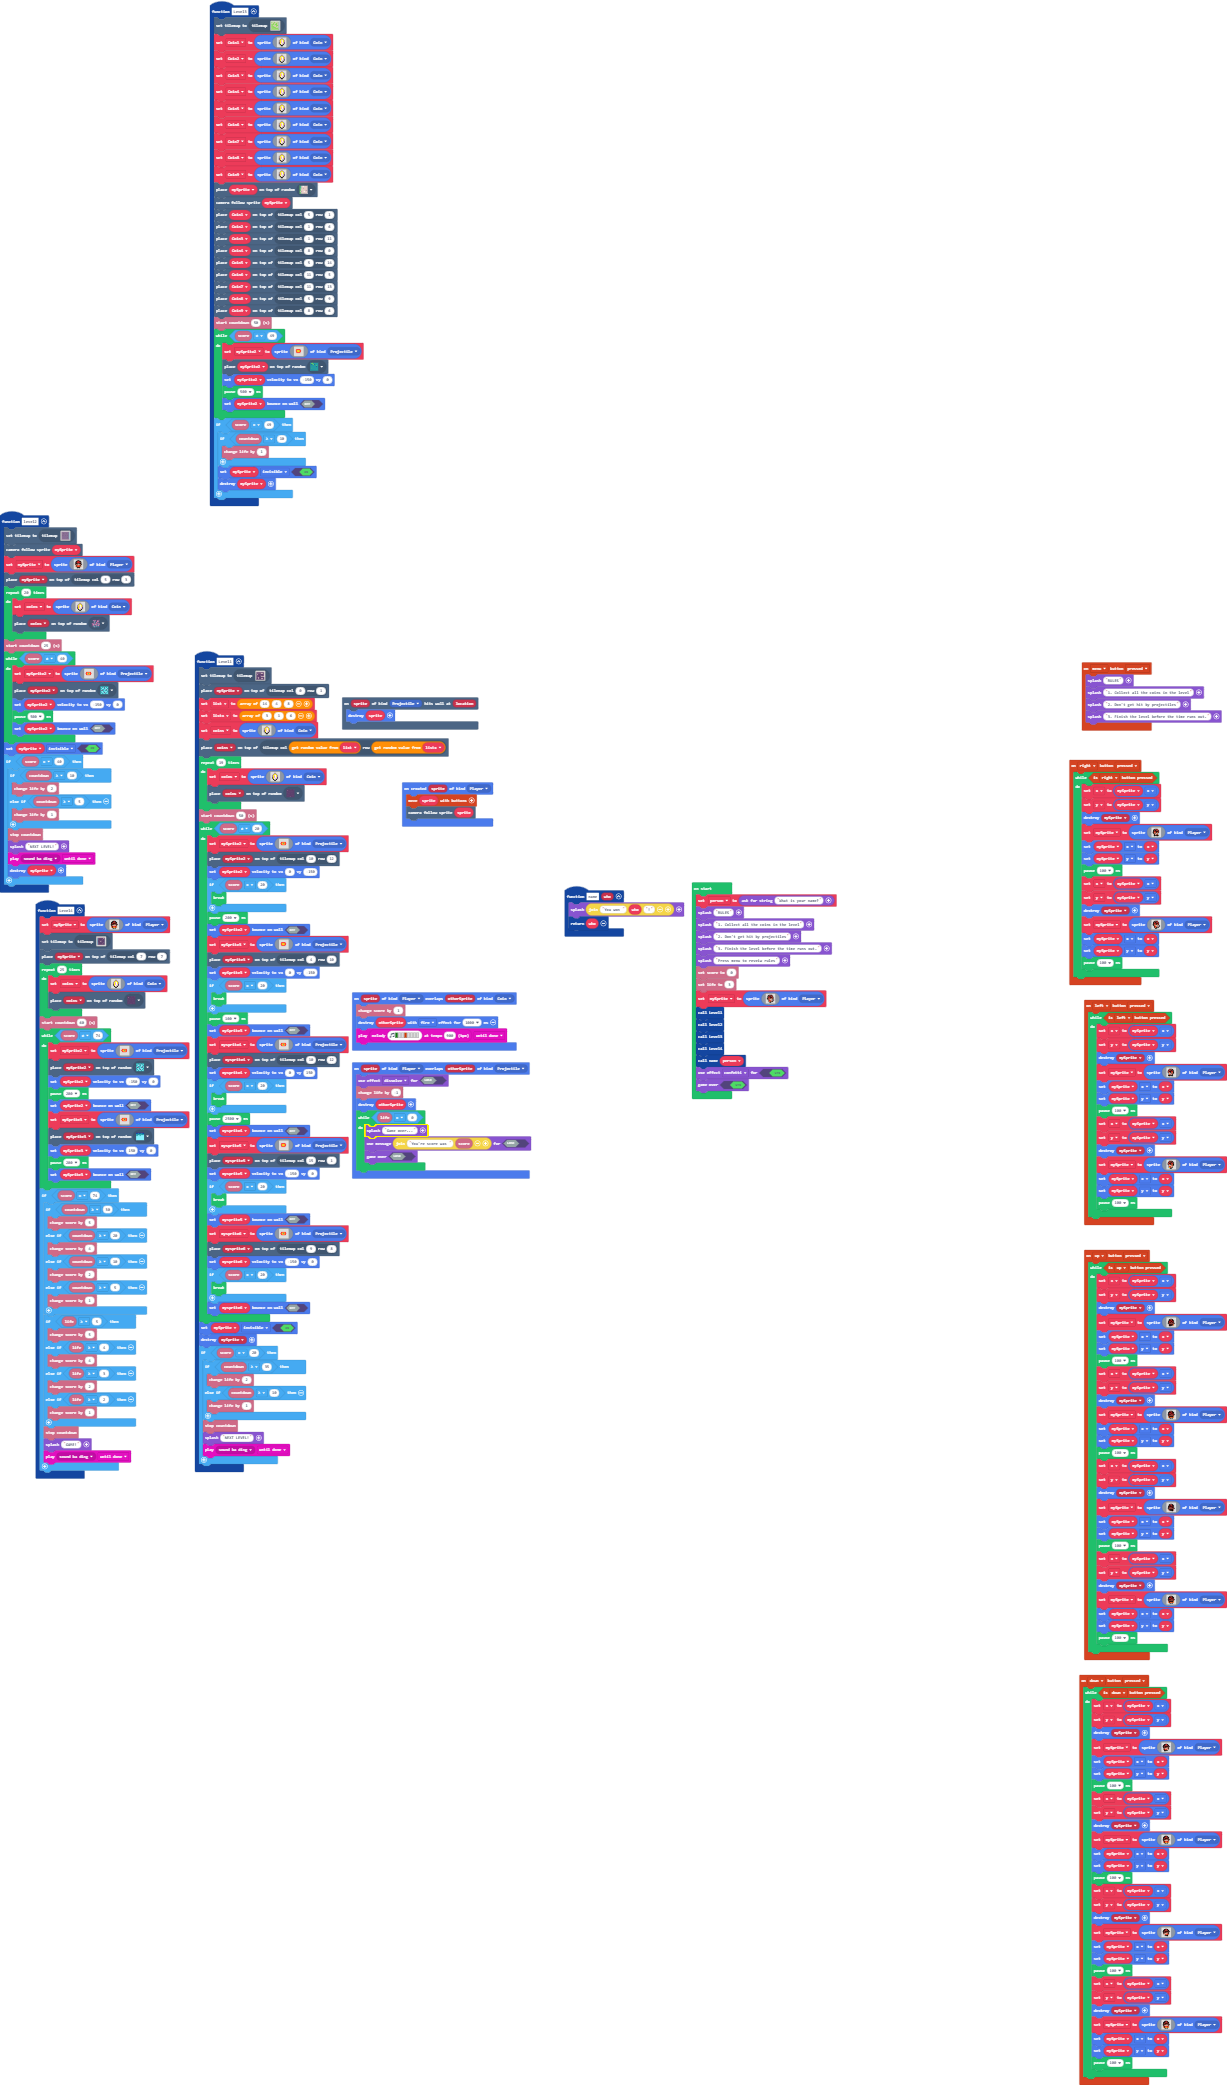
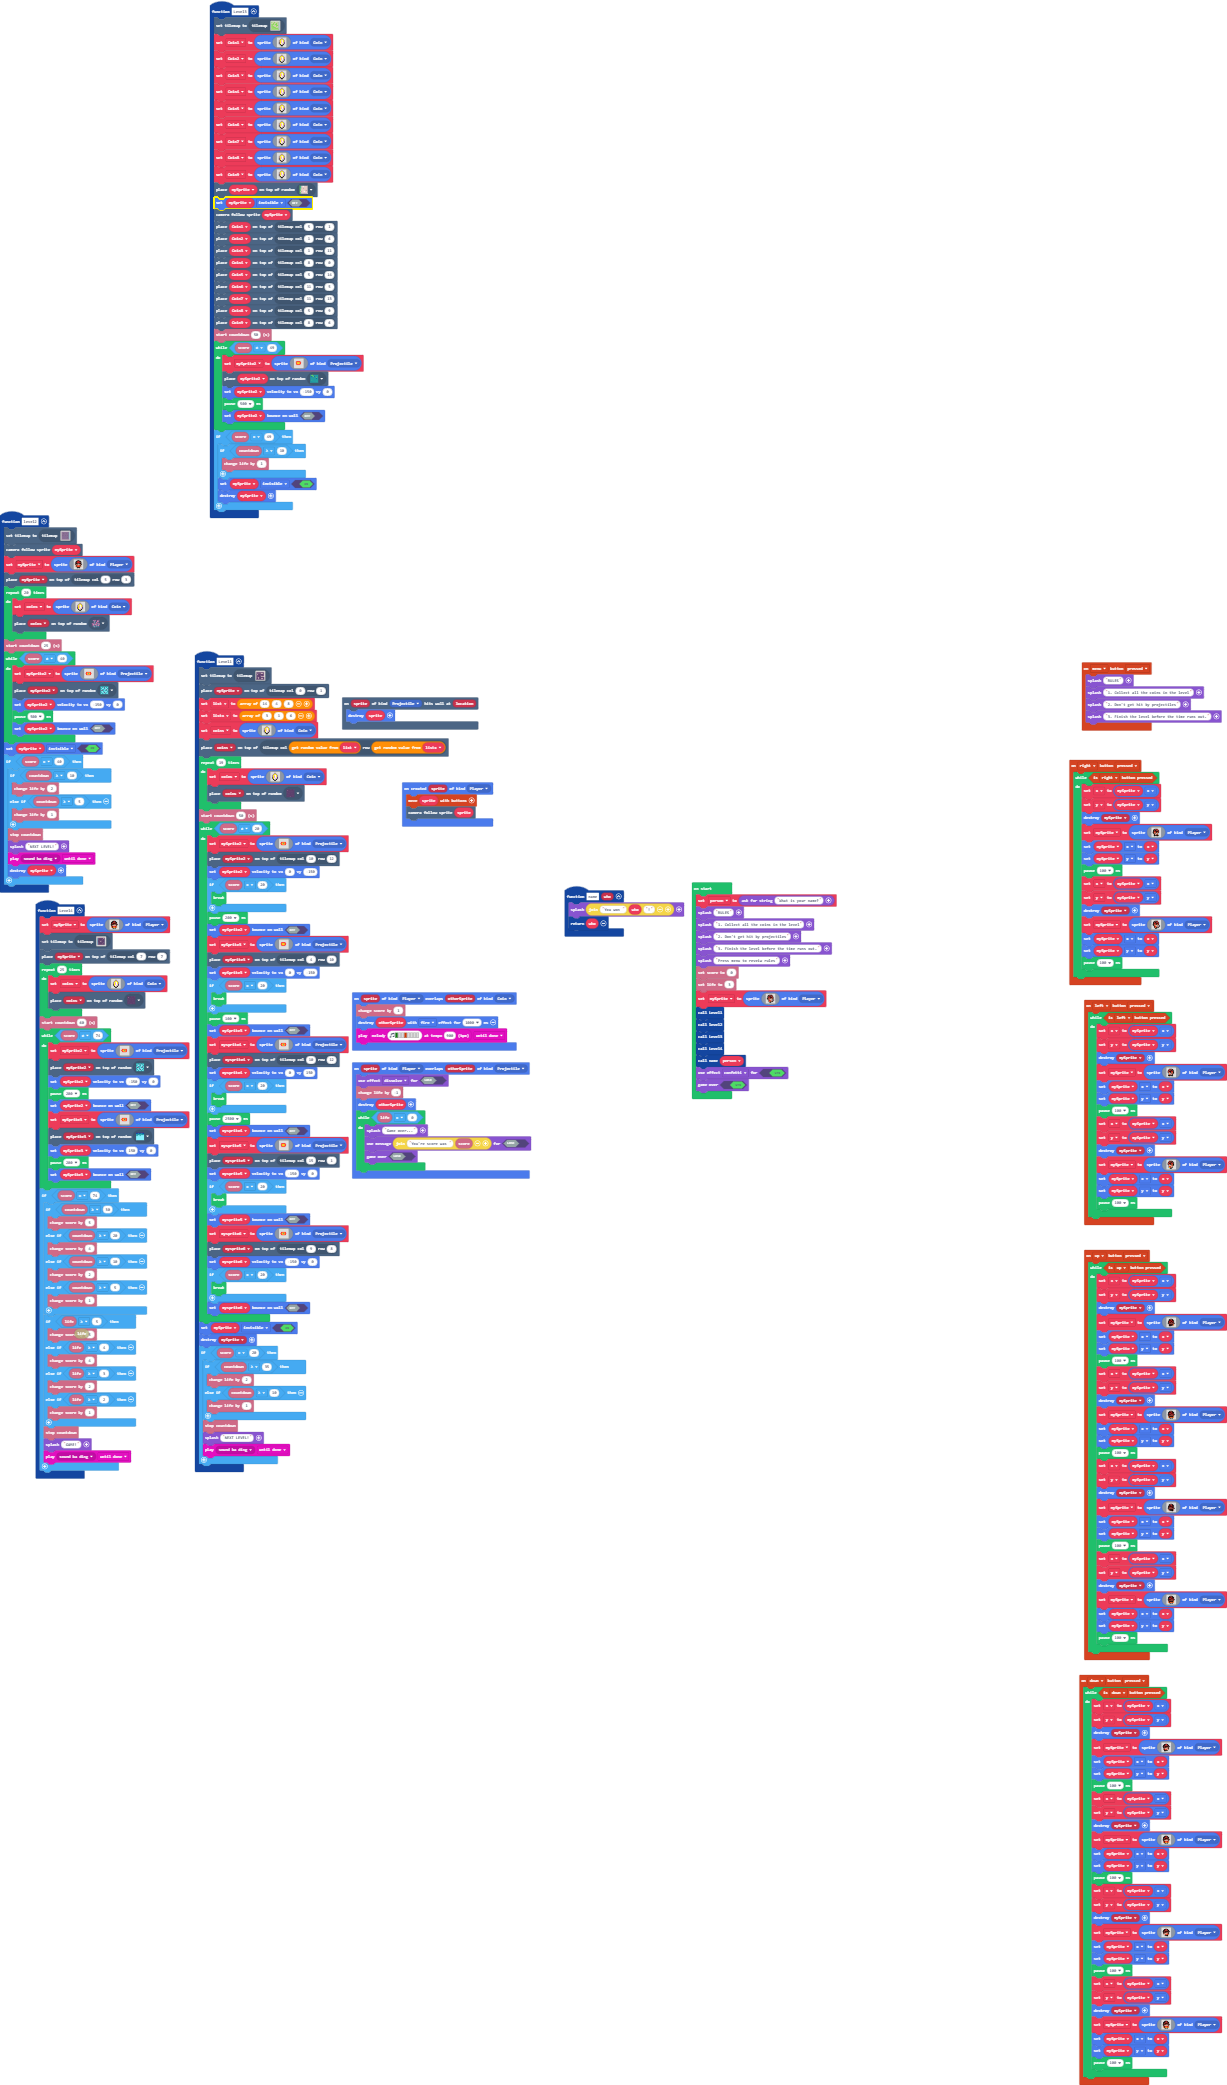
Update main.blocks, main.ts

Changed region(s): [[0.1548, 0.0935, 0.3097, 0.2494]]

diff --git a/main.ts b/main.ts
@@ -204,6 +204,7 @@ function Level3 () {
         . . . f f . . . 
         `, SpriteKind.Coin)
     tiles.placeOnRandomTile(mySprite, sprites.castle.tilePath4)
+    mySprite.setFlag(SpriteFlag.Invisible, false)
     scene.cameraFollowSprite(mySprite)
     tiles.placeOnTile(Coin1, tiles.getTileLocation(5, 1))
     tiles.placeOnTile(Coin2, tiles.getTileLocation(1, 6))
